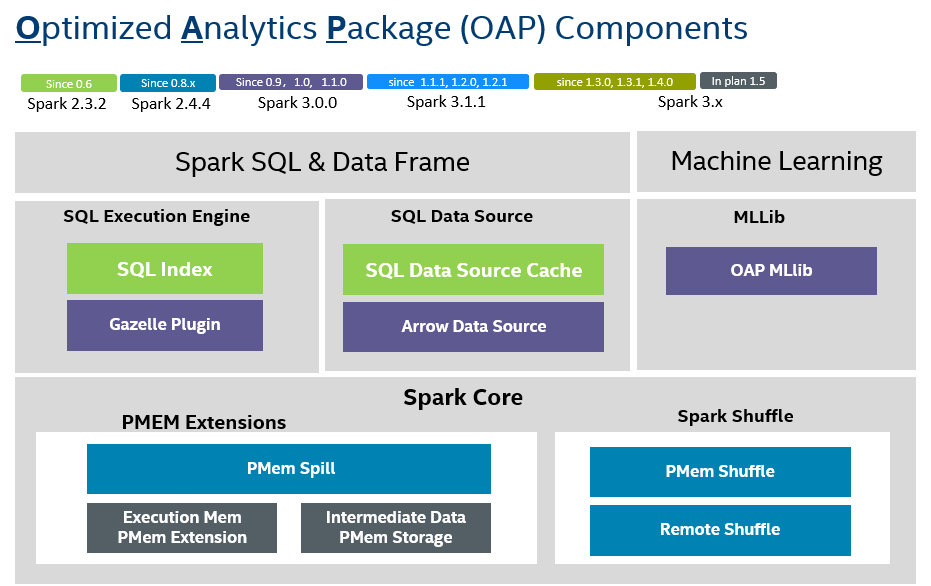
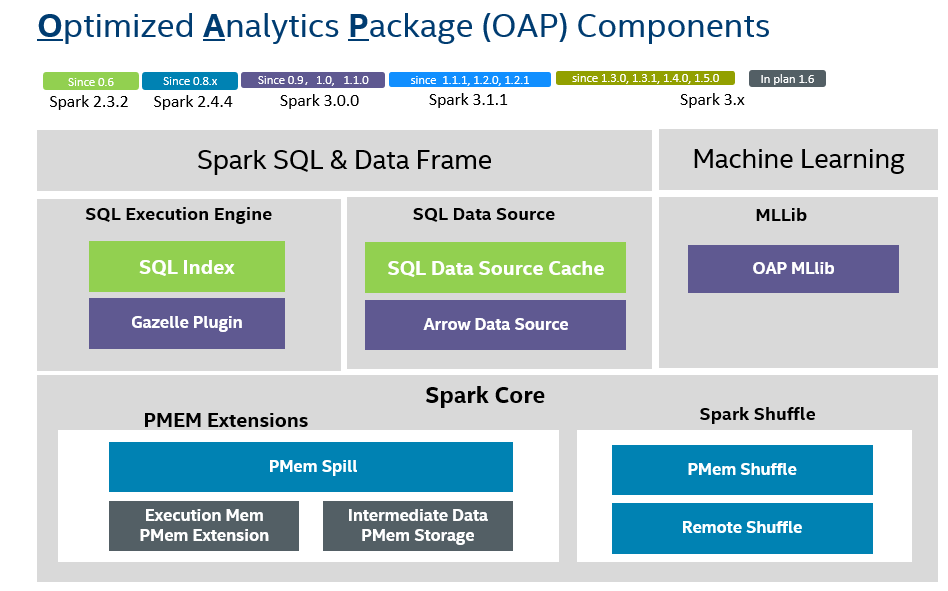
Update documents for OAP 1.5.0 (#269) (#270)
[OAP-TOOLS-221] Update documents for OAP 1.5.0

Changed region(s): [[0.0, 0.215, 0.9968, 1.0], [0.0, 0.0, 0.8722, 0.1843]]

diff --git a/CHANGELOG.md b/CHANGELOG.md
@@ -1,5 +1,139 @@
 # Change log
-Generated on 2022-07-05
+Generated on 2022-12-08
+
+## Release 1.5.0
+
+### Gazelle Plugin
+
+#### Features
+|||
+|:---|:---|
+|[#931](https://github.com/oap-project/gazelle_plugin/issues/931)|Reuse partition vectors for arrow scan|
+|[#955](https://github.com/oap-project/gazelle_plugin/issues/955)|implement missing expressions|
+|[#1120](https://github.com/oap-project/gazelle_plugin/issues/1120)|Support aggregation window functions with order by|
+|[#1135](https://github.com/oap-project/gazelle_plugin/issues/1135)|Supports Spark 3.2.2 shims|
+|[#1114](https://github.com/oap-project/gazelle_plugin/issues/1114)|Remove tmp directory after application exits|
+|[#862](https://github.com/oap-project/gazelle_plugin/issues/862)|implement row_number window function|
+|[#1007](https://github.com/oap-project/gazelle_plugin/issues/1007)|Document how to test columnar UDF|
+|[#942](https://github.com/oap-project/gazelle_plugin/issues/942)|Use hash aggregate for string type input|
+
+#### Performance
+|||
+|:---|:---|
+|[#1144](https://github.com/oap-project/gazelle_plugin/issues/1144)|Optimize cast WSCG performance|
+
+#### Bugs Fixed
+|||
+|:---|:---|
+|[#1164](https://github.com/oap-project/gazelle_plugin/issues/1164)|Limit the column num in WSCG|
+|[#1166](https://github.com/oap-project/gazelle_plugin/issues/1166)|Peers' values should be considered in window function for CURRENT ROW in range mode|
+|[#1149](https://github.com/oap-project/gazelle_plugin/issues/1149)|Vulnerability issues|
+|[#1112](https://github.com/oap-project/gazelle_plugin/issues/1112)|Validate Error： “Invalid: Length spanned by binary offsets (21) larger than values array (size 20)”|
+|[#1103](https://github.com/oap-project/gazelle_plugin/issues/1103)|wrong hashagg results|
+|[#929](https://github.com/oap-project/gazelle_plugin/issues/929)|Failed to add user extension while using gazelle|
+|[#1100](https://github.com/oap-project/gazelle_plugin/issues/1100)|Wildcard in json path is not supported|
+|[#1079](https://github.com/oap-project/gazelle_plugin/issues/1079)|Like function gets wrong result when default escape char is contained|
+|[#1046](https://github.com/oap-project/gazelle_plugin/issues/1046)|Fall back to use row-based operators, error is makeStructField is unable to parse from conv|
+|[#1053](https://github.com/oap-project/gazelle_plugin/issues/1053)|Exception when there is function expression in pos or len of substring|
+|[#1024](https://github.com/oap-project/gazelle_plugin/issues/1024)|ShortType is not supported in ColumnarLiteral|
+|[#1034](https://github.com/oap-project/gazelle_plugin/issues/1034)|Exception when there is unix_timestamp in CaseWhen |
+|[#1032](https://github.com/oap-project/gazelle_plugin/issues/1032)|Missing WSCG check for ExistenceJoin|
+|[#1027](https://github.com/oap-project/gazelle_plugin/issues/1027)|partition by literal in window function|
+|[#1019](https://github.com/oap-project/gazelle_plugin/issues/1019)|Support more date formats for from_unixtime & unix_timestamp|
+|[#999](https://github.com/oap-project/gazelle_plugin/issues/999)|The performance of using ColumnarSort operator to sort string type is significantly lower than that of native spark Sortexec|
+|[#984](https://github.com/oap-project/gazelle_plugin/issues/984)|concat_ws|
+|[#958](https://github.com/oap-project/gazelle_plugin/issues/958)|JVM/Native R2C and CoalesceBatcth process time inaccuracy|
+|[#979](https://github.com/oap-project/gazelle_plugin/issues/979)|Failed to find column while reading parquet with case insensitive|
+
+#### PRs
+|||
+|:---|:---|
+|[#1169](https://github.com/oap-project/gazelle_plugin/pull/1169)|[NSE-1161] Format sql config string key|
+|[#1167](https://github.com/oap-project/gazelle_plugin/pull/1167)|[NSE-1166] Cover peers' values in sum window function in range mode|
+|[#1165](https://github.com/oap-project/gazelle_plugin/pull/1165)|[NSE-1164] Limit the max column num in WSCG|
+|[#1160](https://github.com/oap-project/gazelle_plugin/pull/1160)|[NSE-1149] upgrade guava to 30.1.1|
+|[#1158](https://github.com/oap-project/gazelle_plugin/pull/1158)|[NSE-1149] upgrade guava to 30.1.1|
+|[#1152](https://github.com/oap-project/gazelle_plugin/pull/1152)|[NSE-1149] upgrade guava to 24.1.1|
+|[#1153](https://github.com/oap-project/gazelle_plugin/pull/1153)|[NSE-1149] upgrade pgsql to 42.3.3|
+|[#1150](https://github.com/oap-project/gazelle_plugin/pull/1150)|[NSE-1149] Remove log4j in shims module|
+|[#1146](https://github.com/oap-project/gazelle_plugin/pull/1146)|[NSE-1135] Introduce shim layer for supporting spark 3.2.2|
+|[#1145](https://github.com/oap-project/gazelle_plugin/pull/1145)|[NSE-1144] Optimize cast wscg performance|
+|[#1136](https://github.com/oap-project/gazelle_plugin/pull/1136)|Remove project from wscg when it's the child of window|
+|[#1122](https://github.com/oap-project/gazelle_plugin/pull/1122)|[NSE-1120] Support sum window function with order by statement|
+|[#1131](https://github.com/oap-project/gazelle_plugin/pull/1131)|[NSE-1114] Remove temp directory without FileUtils.forceDeleteOnExit|
+|[#1129](https://github.com/oap-project/gazelle_plugin/pull/1129)|[NSE-1127] Use larger buffer for hash agg|
+|[#1130](https://github.com/oap-project/gazelle_plugin/pull/1130)|[NSE-610] fix hashjoin build time metric|
+|[#1126](https://github.com/oap-project/gazelle_plugin/pull/1126)|[NSE-1125] Add status check for hashing GetOrInsert|
+|[#1056](https://github.com/oap-project/gazelle_plugin/pull/1056)|[NSE-955] Support window function lag|
+|[#1123](https://github.com/oap-project/gazelle_plugin/pull/1123)|[NSE-1118] fix codegen on TPCDS Q88|
+|[#1119](https://github.com/oap-project/gazelle_plugin/pull/1119)|[NSE-1118] adding more checks for SMJ codegen|
+|[#1058](https://github.com/oap-project/gazelle_plugin/pull/1058)|[NSE-981] Add a test suite for projection codegen|
+|[#1117](https://github.com/oap-project/gazelle_plugin/pull/1117)|[NSE-1116] Disable columnar url_decoder|
+|[#1113](https://github.com/oap-project/gazelle_plugin/pull/1113)|[NSE-1112] Fix Arrow array meta data validating issue when writing parquet files|
+|[#1039](https://github.com/oap-project/gazelle_plugin/pull/1039)|[NSE-1019] fix codegen for all expressions|
+|[#1115](https://github.com/oap-project/gazelle_plugin/pull/1115)|[NSE-1114] Remove tmp directory after application exits|
+|[#1111](https://github.com/oap-project/gazelle_plugin/pull/1111)|remove debug log|
+|[#1098](https://github.com/oap-project/gazelle_plugin/pull/1098)|[NSE-1108] allow to use different cases in column names|
+|[#1082](https://github.com/oap-project/gazelle_plugin/pull/1082)|[NSE-1071] Refactor vector resizing in hash aggregate|
+|[#1036](https://github.com/oap-project/gazelle_plugin/pull/1036)|[NSE-987] fix string date|
+|[#948](https://github.com/oap-project/gazelle_plugin/pull/948)|[NSE-947] Add a whole stage fallback strategy|
+|[#1099](https://github.com/oap-project/gazelle_plugin/pull/1099)|[NSE-1104] fix hashagg w/ empty string|
+|[#1102](https://github.com/oap-project/gazelle_plugin/pull/1102)|[NSE-400] Fix memory leak for native C2R and R2C.|
+|[#1101](https://github.com/oap-project/gazelle_plugin/pull/1101)|[NSE-1100] Fall back get_json_object when wildcard is contained in json path|
+|[#1090](https://github.com/oap-project/gazelle_plugin/pull/1090)|[NSE-1065] fix on count distinct w/ keys|
+|[#1097](https://github.com/oap-project/gazelle_plugin/pull/1097)|Ignore two unit tests|
+|[#1081](https://github.com/oap-project/gazelle_plugin/pull/1081)|[NSE-1075] Support dynamic merge file partition|
+|[#1080](https://github.com/oap-project/gazelle_plugin/pull/1080)|[NSE-1079] Set the default escape char for like function|
+|[#1078](https://github.com/oap-project/gazelle_plugin/pull/1078)|[NSE-610] support big keys in hashagg|
+|[#1072](https://github.com/oap-project/gazelle_plugin/pull/1072)|[NSE-1071] Add tiny optimizations for hash aggregation functions|
+|[#1069](https://github.com/oap-project/gazelle_plugin/pull/1069)|[NSE-800] Remove spark-arrow-datasource-parquet in assembly|
+|[#1066](https://github.com/oap-project/gazelle_plugin/pull/1066)|[NSE-1065] Adding hashagg w/ filter support|
+|[#1067](https://github.com/oap-project/gazelle_plugin/pull/1067)|[NSE-958] Fix JVM R2C operator metrics|
+|[#935](https://github.com/oap-project/gazelle_plugin/pull/935)|[NSE-931] Reuse partition vectors for arrow scan|
+|[#1064](https://github.com/oap-project/gazelle_plugin/pull/1064)|[NSE-955] Implement parse_url|
+|[#1063](https://github.com/oap-project/gazelle_plugin/pull/1063)|[NSE-955] Support more date format in unix timestamp|
+|[#930](https://github.com/oap-project/gazelle_plugin/pull/930)|[NSE-929] Support user defined spark extensions|
+|[#1038](https://github.com/oap-project/gazelle_plugin/pull/1038)|[NSE-928] allow to sort with big partitions |
+|[#1057](https://github.com/oap-project/gazelle_plugin/pull/1057)|[NSE-1019] fix codegen for unixtimestamp|
+|[#1055](https://github.com/oap-project/gazelle_plugin/pull/1055)|[NSE-955] Support md5/sha1/sha2 functions|
+|[#903](https://github.com/oap-project/gazelle_plugin/pull/903)|[NSE-610] hashagg opt#3|
+|[#1044](https://github.com/oap-project/gazelle_plugin/pull/1044)|[NE-400] fix memory leakage in native columnartorow|
+|[#1041](https://github.com/oap-project/gazelle_plugin/pull/1041)|[NSE-1023] [NSE-1046] Cover more supported expressions in getting AttributeReference|
+|[#1054](https://github.com/oap-project/gazelle_plugin/pull/1054)|[NSE-1053] Support function in substring's pos and len|
+|[#1049](https://github.com/oap-project/gazelle_plugin/pull/1049)|[NSE-955] Support bin function|
+|[#1048](https://github.com/oap-project/gazelle_plugin/pull/1048)|[NSE-955] Support power function|
+|[#1042](https://github.com/oap-project/gazelle_plugin/pull/1042)|[NSE-955] Support find_in_set function|
+|[#1025](https://github.com/oap-project/gazelle_plugin/pull/1025)|[NSE-1024] Support ShortType in ColumnarLiteral|
+|[#1037](https://github.com/oap-project/gazelle_plugin/pull/1037)|[NSE-955] Turn on the support for get_json_object|
+|[#1033](https://github.com/oap-project/gazelle_plugin/pull/1033)|[NSE-1032] Adding WSCG check for keys in Join|
+|[#1035](https://github.com/oap-project/gazelle_plugin/pull/1035)|[NSE-1034] Add timeZoneId in ColumnarUnixTimestamp|
+|[#1028](https://github.com/oap-project/gazelle_plugin/pull/1028)|[NSE-1027] Problem with Literal in window function|
+|[#1017](https://github.com/oap-project/gazelle_plugin/pull/1017)|[NSE-999] use TimSort for STRING/DECIMAL onekey based sorting|
+|[#1022](https://github.com/oap-project/gazelle_plugin/pull/1022)|[NSE-955] Support remainder function|
+|[#1021](https://github.com/oap-project/gazelle_plugin/pull/1021)|[NSE-1019] [NSE-1020] Support more date formats and be aware of local time zone in handling unix timestamp|
+|[#1009](https://github.com/oap-project/gazelle_plugin/pull/1009)|[NSE-999] s/string/string_view in sort|
+|[#990](https://github.com/oap-project/gazelle_plugin/pull/990)|[NSE-943] Improve rowtocolumn operator|
+|[#1000](https://github.com/oap-project/gazelle_plugin/pull/1000)|[NSE-862] improve row_number()|
+|[#1013](https://github.com/oap-project/gazelle_plugin/pull/1013)|[NSE-955] Add Murmur3Hash expression support|
+|[#995](https://github.com/oap-project/gazelle_plugin/pull/995)|[NSE-981] Add more codegen checking in BHJ & SHJ|
+|[#1006](https://github.com/oap-project/gazelle_plugin/pull/1006)|[NSE-1007] Add a test guide for columnar UDF|
+|[#969](https://github.com/oap-project/gazelle_plugin/pull/969)|[NSE-943] Optimize data conversion for String/Binary type in Row2Columnar|
+|[#973](https://github.com/oap-project/gazelle_plugin/pull/973)|[NSE-928] Add ARROW_CHECK for batch_size check|
+|[#992](https://github.com/oap-project/gazelle_plugin/pull/992)|[NSE-984] fix concat_ws|
+|[#991](https://github.com/oap-project/gazelle_plugin/pull/991)|[NSE-981] check all expressions in HashAgg|
+|[#993](https://github.com/oap-project/gazelle_plugin/pull/993)|[NSE-979] fix data source|
+|[#980](https://github.com/oap-project/gazelle_plugin/pull/980)|[NSE-979] Support reading parquet with case sensitive|
+|[#985](https://github.com/oap-project/gazelle_plugin/pull/985)|[NSE-981] Implement supportColumnarCodegen to reflect the actual support state|
+|[#964](https://github.com/oap-project/gazelle_plugin/pull/964)|[NSE-955] implement lpad/rpad|
+|[#963](https://github.com/oap-project/gazelle_plugin/pull/963)|[NSE-955] implement concat_ws|
+|[#971](https://github.com/oap-project/gazelle_plugin/pull/971)|[NSE-955] Support hex expression|
+|[#968](https://github.com/oap-project/gazelle_plugin/pull/968)|[NSE-955] implement lower function |
+|[#965](https://github.com/oap-project/gazelle_plugin/pull/965)|[NSE-955] Support expression conv|
+|[#949](https://github.com/oap-project/gazelle_plugin/pull/949)|[NSE-862] implement row_number function|
+|[#960](https://github.com/oap-project/gazelle_plugin/pull/960)|[NSE-955] doc: Add columnar expression development guide|
+|[#941](https://github.com/oap-project/gazelle_plugin/pull/941)|[NSE-942] Force to use hash aggregate for string type input|
+|[#959](https://github.com/oap-project/gazelle_plugin/pull/959)|[NSE-958] Fix SQLMetrics inaccuracy in JVM/Native R2C and CoalesceBatcth|
+
 
 ## Release 1.4.0
 

diff --git a/docs/OAP-Developer-Guide.md b/docs/OAP-Developer-Guide.md
@@ -4,8 +4,8 @@ This document contains the instructions & scripts on installing necessary depend
 You can get more detailed information from OAP each module below.
 
 
-* [OAP MLlib](https://github.com/oap-project/oap-mllib/tree/v1.4.0)
-* [Gazelle Plugin](https://github.com/oap-project/gazelle_plugin/tree/v1.4.0)
+* [OAP MLlib](https://github.com/oap-project/oap-mllib/tree/v1.5.0)
+* [Gazelle Plugin](https://github.com/oap-project/gazelle_plugin/tree/v1.5.0)
 
 ## Building OAP
 
@@ -18,14 +18,14 @@ We provide scripts to help automatically install dependencies required, please c
 # cd oap-tools
 # sh dev/install-compile-time-dependencies.sh
 ```
-*Note*: oap-tools tag version `v1.4.0` corresponds to  all OAP modules' tag version `v1.4.0`.
+*Note*: oap-tools tag version `v1.5.0` corresponds to  all OAP modules' tag version `v1.5.0`.
 
 Then the dependencies below will be installed:
 
 * [Cmake](https://cmake.org/install/)
 * [GCC > 9](https://gcc.gnu.org/wiki/InstallingGCC)
 * [OneAPI](https://software.intel.com/content/www/us/en/develop/tools/oneapi.html)
-* [Arrow](https://github.com/oap-project/arrow/tree/v4.0.0-oap-1.4.0)
+* [Arrow](https://github.com/oap-project/arrow/tree/v4.0.0-oap-1.5.0)
 * [LLVM](https://llvm.org/) 
 
 

diff --git a/docs/OAP-Release-Cadence.md b/docs/OAP-Release-Cadence.md
@@ -10,13 +10,13 @@ Each OAP release will be versioned: [MAJOR].[FEATURE].[MAINTENANCE]
 
 In general, major feature releases occur about every 4 months. Hence, OAP would generally be released about 4 months after 1.1.0. Maintenance releases happen as needed in between feature releases. Major releases do not happen according to a fixed schedule.
 
-##### OAP 1.5 Release Window
+##### OAP 1.6 Release Window
 
 |Date  |  Event |
 | :----- | :----- |
-Aug        2022	           |  Code freeze. Release branch cut.|
-Mid Sep   2022	            | QA period. Focus on bug fixes, tests, stability and docs. Generally, no new features merged.|
-Sep     2022	             |Release candidates (RC), etc. until final release passes|
+May        2023	           |  Code freeze. Release branch cut.|
+Mid June   2023             | QA period. Focus on bug fixes, tests, stability and docs. Generally, no new features merged.|
+June     2023	             |Release candidates (RC), etc. until final release passes|
 
 
 #### Maintenance Releases

diff --git a/docs/OAP-Installation-Guide.md b/docs/OAP-Installation-Guide.md
@@ -28,7 +28,7 @@ To test your installation,  run the command `conda list` in your terminal window
 Create a Conda environment and install OAP Conda package.
 
 ```bash
-$ conda create -n oapenv -c conda-forge -c intel -y oap=1.4.0.spark32
+$ conda create -n oapenv -c conda-forge -c intel -y oap=1.5.0.spark32
 ```
 
 Once finished steps above, you have completed OAP dependencies installation and OAP building, and will find built OAP jars under `$HOME/miniconda2/envs/oapenv/oap_jars`
